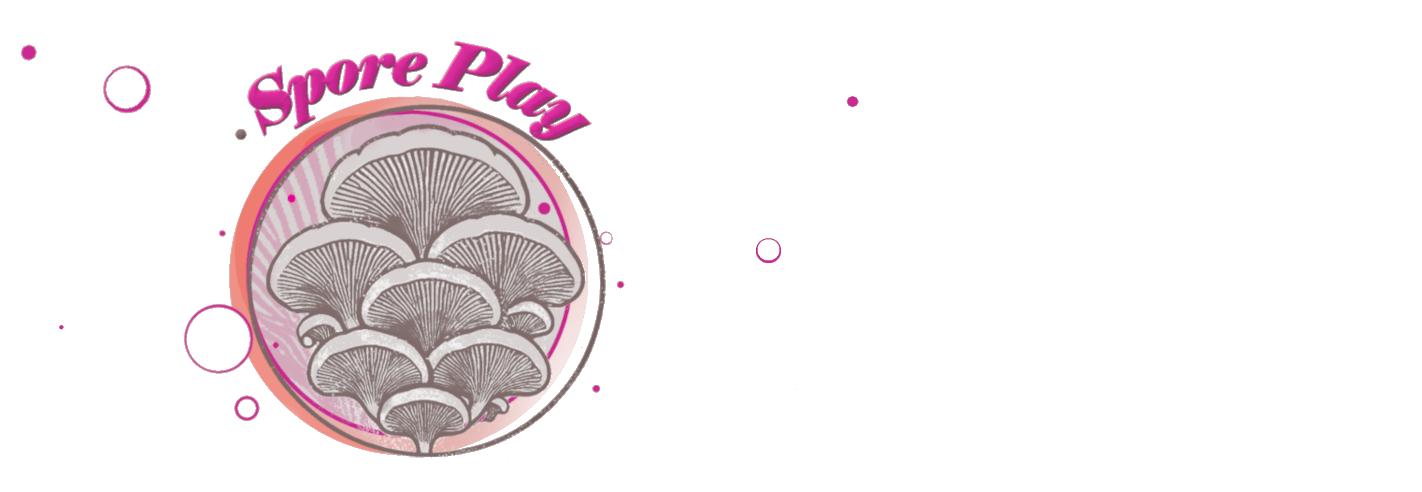
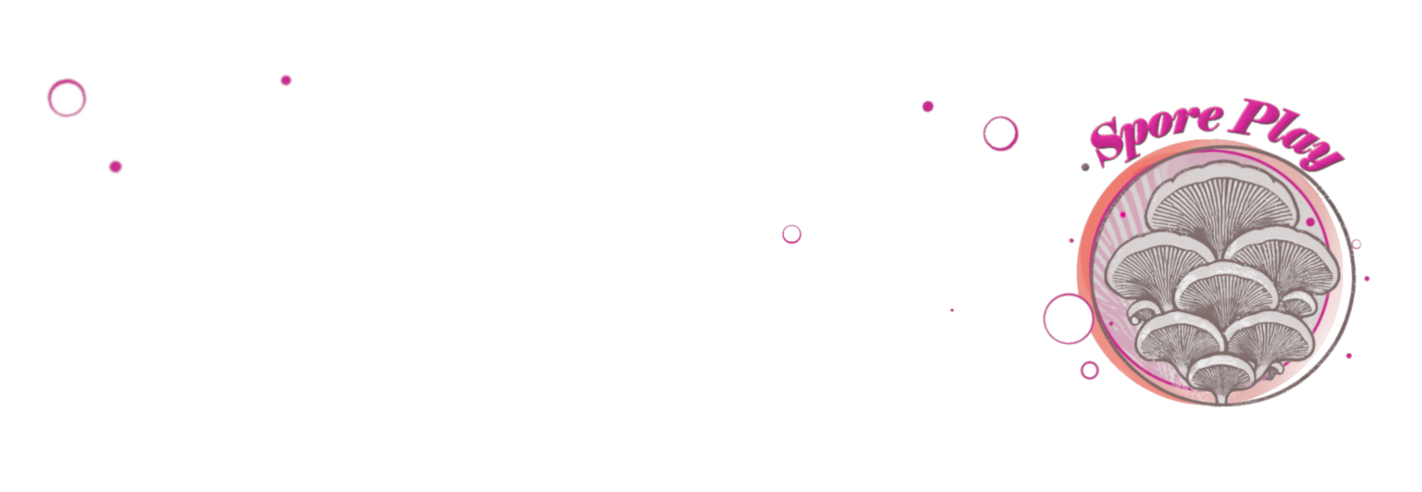
elements arranged

diff --git a/style.css b/style.css
@@ -373,7 +373,8 @@ a {
 }
 
 .w3-tooltip,.w3-display-container {
-    position: relative
+    position: relative;
+    margin-top: 5px
 }
 
 .w3-tooltip .w3-text {
@@ -436,7 +437,7 @@ a {
     min-width: 160px;
     margin: 0;
     padding: 0;
-    z-index: 1
+    z-index: 10
 }
 
 .w3-check,.w3-radio {
@@ -476,7 +477,7 @@ a {
 .w3-modal {
     z-index: 3;
     display: none;
-    padding-top: 100px;
+    /* padding-top: 10px; */
     position: fixed;
     left: 0;
     top: 0;
@@ -503,11 +504,11 @@ a {
 }
 
 .banner {
-    position: absolute;
+    position: fixed;
     top: 0;
     left: 0;
     width: 100%; /* Full width */
-    z-index: 1000; /* Ensure it's above other content */
+    z-index: 9; /*Ensure it's above other content*/
   }
   
   .banner img {
@@ -877,11 +878,12 @@ a {
 .w3-top,.w3-bottom {
     position: fixed;
     width: 100%;
-    z-index: 1
+    z-index: 1100
 }
 
 .w3-top {
-    top: 0
+    top: 0;
+    /* z-index: 1100 */
 }
 
 .w3-bottom {
@@ -898,7 +900,7 @@ a {
     right: 0;
     bottom: 0;
     background-color: rgba(0,0,0,0.5);
-    z-index: 2
+    /* z-index: 1200 */
 }
 
 .w3-display-topleft {
@@ -1032,7 +1034,7 @@ a {
 }
 
 .w3-codespan {
-    color: crimson;
+    color: #d52b96;
     background-color: #f1f1f1;
     padding-left: 4px;
     padding-right: 4px;

diff --git a/index.html b/index.html
@@ -5,7 +5,7 @@
 <!-- change background colours and colour scheme -->
 <!-- add branding images and instructions image -->
 <!-- add link to etsy shop -->
-<!-- add correct email address -->
+<!-- make message button work or remove -->
 
 <!DOCTYPE html>
 <html lang="en">
@@ -55,7 +55,7 @@ body {font-family: "Lato", sans-serif}
 
 <!-- Transparent Banner -->
 <div class="banner">
-  <img src="SporePlay_banner2.png" alt="Banner Image">
+  <img src="SporePlay_banner3.png" alt="Banner Image">
 </div>
 
 <div class="w3-content" style="max-width:2000px;margin-top:46px">
